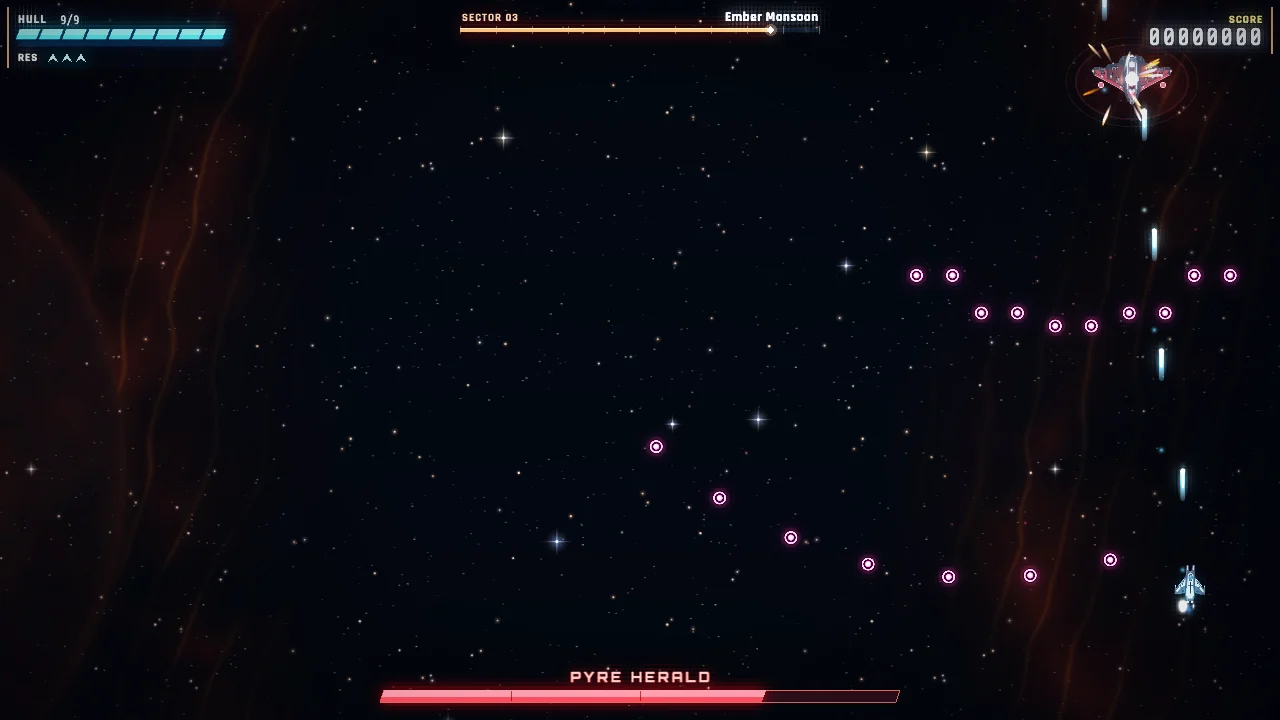
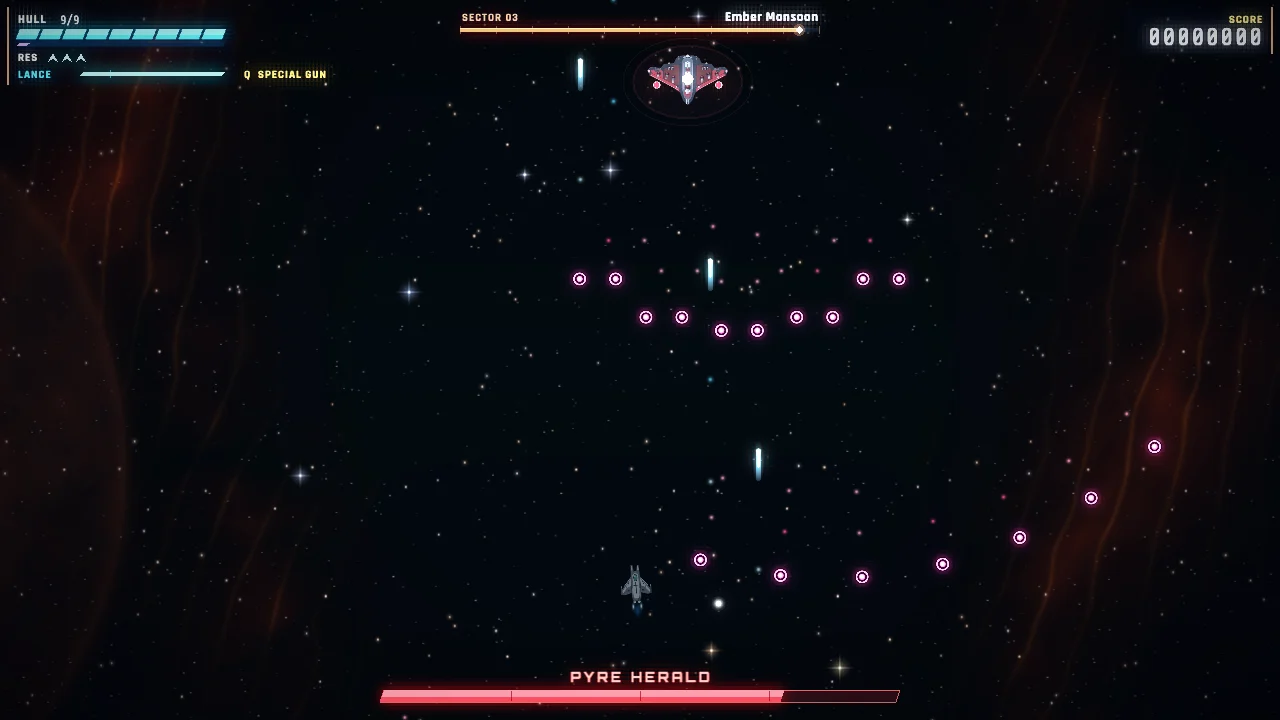
feat(balance): retune bosses and the special-gun charge for Lance as the main gun; v1.35.0 (#45)
* feat(balance): the boss bot spends the special-gun charge; tune the charge and boss hulls

The balance bot now measures three gun policies (Lance only, and Scatter or
Seekers whenever the meter is full) with --guns and --runs, and reports time
on a special gun. Charge: 8 s per full meter, 40 s refill, 0.005 per kill.
Boss hull lowered on sectors 4-10 so a charge-spending bot kills each boss in
89-99% of par and Lance alone stays within 3% past par.

* docs: special-gun charge numbers, boss hull changes and the three-policy balance script

* chore(release): v1.35.0 with retaken README screenshots

* fix(balance): count special-gun time from gameplay clock advances, not the last delta

---------

diff --git a/scripts/balance/bossFights.ts b/scripts/balance/bossFights.ts
@@ -5,24 +5,37 @@
  *
  *   bun run balance:bosses
  *   bun run balance:bosses --sectors 6 --port 4302
+ *   bun run balance:bosses --guns scatter --runs 3
  *   bun run balance:bosses --invulnerable      # time to kill even where the bot would die
  *
  * Starts its own dev server (the browser harness is dev-only), jumps straight to each boss with the
  * sector's representative ship, and lets `startBossFight` in the browser harness fly a fixed bot: it
  * holds a low line under the boss and steps away from shots that will cross it. Every boss sector flies
- * Lance; the bot never spends the special-gun charge. Fights run in real
- * time on the gameplay clock (no speed-up), several at once in separate pages; `seconds` is gameplay
- * time from the boss alarm to the kill, so pauses and hit-stops do not count.
+ * Lance, and each fight follows one gun policy (`--guns`, all three by default):
+ * - `lance` never presses swap, the floor a player who ignores the special guns meets.
+ * - `scatter` / `seekers` spend the charge the way a decent player would: once the boss has taken its
+ *   first hit, every time the meter is full on Lance, press swap until that gun is up (Seekers is two
+ *   presses away) and ride it until the empty meter hands Lance back.
+ * The bot reads the meter from the harness snapshot and presses Q like a player, a few times a second.
+ * Fights run in real time on the gameplay clock (no speed-up), several at once in separate pages;
+ * `seconds` is gameplay time from the boss alarm to the kill, so pauses and hit-stops do not count.
  */
 import { chromium, type Browser } from '@playwright/test';
 import { createServer } from 'vite';
 import type { BossFightReport } from '../../src/browserHarness';
+import { getLevelConfig } from '../../src/config/LevelsConfig';
 import { getUpgradeByKey, getUpgradeProgressionLimit, type UpgradeKey } from '../../src/config/UpgradesConfig';
 
 const BOSS_SECTORS = [3, 4, 5, 6, 7, 8, 9, 10];
+const GUN_POLICIES = ['lance', 'scatter', 'seekers'] as const;
+type GunPolicy = (typeof GUN_POLICIES)[number];
+/** How often the bot looks at the meter: a player glancing at the HUD, not a frame-perfect script. */
+const POLICY_POLL_MS = 250;
 
 interface Options {
   sectors: number[];
+  guns: GunPolicy[];
+  runs: number;
   parallel: number;
   limitSeconds: number;
   invulnerable: boolean;
@@ -41,6 +54,11 @@ function parseOptions(argv: readonly string[]): Options {
       .map((part) => part.trim());
   return {
     sectors: list('--sectors')?.map(Number) ?? BOSS_SECTORS,
+    guns: (list('--guns') ?? [...GUN_POLICIES]).map((gun) => {
+      if (!GUN_POLICIES.includes(gun as GunPolicy)) throw new Error(`--guns: unknown policy ${gun}`);
+      return gun as GunPolicy;
+    }),
+    runs: Number(flag('--runs') ?? 1),
     parallel: Number(flag('--parallel') ?? 4),
     limitSeconds: Number(flag('--limit') ?? 240),
     invulnerable: argv.includes('--invulnerable'),
@@ -60,13 +78,22 @@ function representativeUpgrades(sector: number): string {
   return levels.join(',');
 }
 
+/** Whether the policy presses swap now, given the gun and meter the HUD shows. */
+function wantsSwap(policy: GunPolicy, gun: { id: string; charge: number }): boolean {
+  if (policy === 'lance') return false;
+  if (gun.id === 'lance') return gun.charge >= 1;
+  // On the way to Seekers the swap passes Scatter; once on the policy's gun, ride it out.
+  return gun.id !== policy;
+}
+
 interface FightResult extends BossFightReport {
   sector: number;
+  gun: GunPolicy;
   /** Frames per second the page held; the bot needs a real frame rate to dodge like a player. */
   fps: number;
 }
 
-async function fight(browser: Browser, baseUrl: string, sector: number, options: Options) {
+async function fight(browser: Browser, baseUrl: string, sector: number, gun: GunPolicy, options: Options) {
   const context = await browser.newContext({ viewport: { width: 1280, height: 720 } });
   const page = await context.newPage();
   try {
@@ -92,19 +119,27 @@ async function fight(browser: Browser, baseUrl: string, sector: number, options:
     const deadline = Date.now() + (options.limitSeconds + 30) * 1000;
     let report: BossFightReport | null = null;
     while (Date.now() < deadline) {
-      await page.waitForTimeout(1_000);
-      report = await page
-        .evaluate(() => window.__SPACE_EXPLORER_BROWSER_HARNESS__?.readBossFight() ?? null)
-        .catch(() => report);
-      const gameOver = await page
-        .evaluate(() => window.__SPACE_EXPLORER_BROWSER_HARNESS__?.snapshot().activeScenes.includes('GameOver'))
-        .catch(() => false);
-      if (!report || report.killed || gameOver || report.seconds > options.limitSeconds) break;
+      await page.waitForTimeout(POLICY_POLL_MS);
+      const state = await page
+        .evaluate(() => {
+          const harness = window.__SPACE_EXPLORER_BROWSER_HARNESS__!;
+          const snapshot = harness.snapshot();
+          return {
+            report: harness.readBossFight(),
+            gun: snapshot.gun,
+            gameOver: snapshot.activeScenes.includes('GameOver'),
+          };
+        })
+        .catch(() => null);
+      if (state) report = state.report;
+      if (!state || !report || report.killed || state.gameOver || report.seconds > options.limitSeconds) break;
+      const bossHit = report.bossMaxHp > 0 && report.bossHp < report.bossMaxHp;
+      if (bossHit && state.gun && wantsSwap(gun, state.gun)) await page.keyboard.press('KeyQ');
     }
     if (!report) throw new Error(`Sector ${sector}: no fight report`);
     const frames = await page.evaluate(() => window.__SPACE_EXPLORER_BROWSER_HARNESS__!.renderStats.read().frames);
     const fps = frames / ((Date.now() - startedAt) / 1000);
-    return { ...report, sector, fps } satisfies FightResult;
+    return { ...report, sector, gun, fps } satisfies FightResult;
   } finally {
     await context.close();
   }
@@ -121,7 +156,9 @@ async function main(): Promise<void> {
   if (!address || typeof address === 'string') throw new Error('Dev server did not report a port');
   const baseUrl = `http://127.0.0.1:${address.port}`;
 
-  const queue = [...options.sectors];
+  const queue = options.sectors.flatMap((sector) =>
+    options.guns.flatMap((gun) => Array.from({ length: options.runs }, () => ({ sector, gun })))
+  );
   const results: FightResult[] = [];
   // Without the GPU, headless Chromium renders the game at about 10 fps and the bot reacts too late.
   const browser = await chromium.launch({
@@ -130,9 +167,9 @@ async function main(): Promise<void> {
   });
   try {
     const workers = Array.from({ length: Math.max(1, options.parallel) }, async () => {
-      for (let sector = queue.shift(); sector !== undefined; sector = queue.shift()) {
-        const result = await fight(browser, baseUrl, sector, options);
-        console.error(`sector ${result.sector}: ${result.seconds.toFixed(1)} s`);
+      for (let next = queue.shift(); next !== undefined; next = queue.shift()) {
+        const result = await fight(browser, baseUrl, next.sector, next.gun, options);
+        console.error(`sector ${result.sector} ${result.gun}: ${result.seconds.toFixed(1)} s`);
         results.push(result);
       }
     });
@@ -142,11 +179,12 @@ async function main(): Promise<void> {
     await server.close();
   }
 
-  results.sort((a, b) => a.sector - b.sector);
+  results.sort((a, b) => a.sector - b.sector || GUN_POLICIES.indexOf(a.gun) - GUN_POLICIES.indexOf(b.gun));
   console.log(`Boss fights${options.invulnerable ? ' (invulnerable bot)' : ''}`);
   console.table(
     results.map((result) => ({
       sector: result.sector,
+      gun: result.gun,
       upgrades: representativeUpgrades(result.sector),
       'kill s': result.killed ? Number(result.seconds.toFixed(1)) : `- (${Math.round(result.seconds)})`,
       'boss hp': result.killed ? 0 : `${Math.round(result.bossHp)}/${result.bossMaxHp}`,
@@ -154,6 +192,7 @@ async function main(): Promise<void> {
       'hull hits': result.hullHits,
       'shield hits': result.shieldHits,
       deaths: result.deaths,
+      special: `${Math.round(specialShare(result) * 100)}%`,
       phases: result.phases.join(' '),
       'peak shots': result.peakShots,
       hits: Object.entries(result.hitsBySource)
@@ -162,7 +201,41 @@ async function main(): Promise<void> {
       fps: Math.round(result.fps),
     }))
   );
+  console.log('Per sector and gun policy (kill times of killed fights only)');
+  console.table(summarize(results));
   console.log(JSON.stringify(results));
+}
+
+function specialShare(result: FightResult): number {
+  return result.seconds > 0 ? result.specialGunSeconds / result.seconds : 0;
+}
+
+/** Mean kill time against par, its run-to-run spread, deaths and time on a special gun. */
+function summarize(results: readonly FightResult[]) {
+  const groups = new Map<string, FightResult[]>();
+  for (const result of results) {
+    const key = `${result.sector} ${result.gun}`;
+    groups.set(key, [...(groups.get(key) ?? []), result]);
+  }
+  return [...groups.values()].map((group) => {
+    const { sector, gun } = group[0]!;
+    const par = getLevelConfig(sector).boss!.parSeconds;
+    const kills = group.filter((result) => result.killed).map((result) => result.seconds);
+    const mean = kills.length > 0 ? kills.reduce((sum, seconds) => sum + seconds, 0) / kills.length : NaN;
+    const share = group.reduce((sum, result) => sum + specialShare(result), 0) / group.length;
+    return {
+      sector,
+      gun,
+      runs: group.length,
+      killed: kills.length,
+      'mean kill s': Number(mean.toFixed(1)),
+      spread: kills.length > 0 ? `${Math.min(...kills).toFixed(1)}-${Math.max(...kills).toFixed(1)}` : '-',
+      par,
+      '% of par': Math.round((mean / par) * 100),
+      deaths: group.reduce((sum, result) => sum + result.deaths, 0),
+      special: `${Math.round(share * 100)}%`,
+    };
+  });
 }
 
 await main();

diff --git a/src/browserHarness/bossFightProbes.ts b/src/browserHarness/bossFightProbes.ts
@@ -3,6 +3,7 @@ import type { Boss } from '@/entities/enemies/Boss';
 import { FLIGHT_CONFIG } from '@/config/flightConfig';
 import { stepFlight } from '@/systems/flight/flightModel';
 import type { Player } from '@/entities/Player';
+import type { MainGunId } from '@/config/shipSystems';
 import type { EnemyPool } from '@/systems/EnemyPool';
 import { GAME_SCENE_EVENTS } from '@/systems/GameSceneEvents';
 import type { DamageSource, PlayerFatalResult, PlayerHitResult } from '@/systems/PlayerDamage';
@@ -23,6 +24,8 @@ export interface BossFightReport {
   peakShots: number;
   bossHp: number;
   bossMaxHp: number;
+  /** Gameplay seconds of the fight flown on a special gun (Scatter or Seekers). */
+  specialGunSeconds: number;
 }
 
 interface BossFightScene extends Phaser.Scene {
@@ -31,6 +34,7 @@ interface BossFightScene extends Phaser.Scene {
   levelManager: { distance: number; getLevelConfig(): { levelDistance: number; bossTriggerProgress: number } };
   gameplayClock: { now: number; delta: number };
   boss: Boss | null;
+  shipSystems: { getGun(): MainGunId | null };
   inputManager: {
     cursors: Record<'left' | 'right' | 'up' | 'down', Phaser.Input.Keyboard.Key>;
   };
@@ -197,9 +201,12 @@ export function createBossFightProbes(game: Phaser.Game) {
         peakShots: 0,
         bossHp: 0,
         bossMaxHp: 0,
+        specialGunSeconds: 0,
       };
       report = fight;
       let spawnedAt = 0;
+      // Hit-stop and pause freeze the gameplay clock, so time is counted from its advances.
+      let lastNow = scene.gameplayClock.now;
       const botMemory: BotMemory = { goalX: null, bossX: null };
       if (options.invulnerable) scene.player.shields = 0;
 
@@ -232,7 +239,13 @@ export function createBossFightProbes(game: Phaser.Game) {
           fight.bossMaxHp = boss.maxHp;
         }
         fight.peakShots = Math.max(fight.peakShots, scene.enemyPool.getEnemyBulletGroup().countActive(true));
-        if (fight.spawned && !fight.killed) fight.seconds = (scene.gameplayClock.now - spawnedAt) / 1000;
+        const now = scene.gameplayClock.now;
+        if (fight.spawned && !fight.killed) {
+          fight.seconds = (now - spawnedAt) / 1000;
+          const gun = scene.shipSystems.getGun();
+          if (gun === 'scatter' || gun === 'seekers') fight.specialGunSeconds += (now - lastNow) / 1000;
+        }
+        lastNow = now;
         if (options.bot) steerBot(scene, botMemory);
       };
       const bindings: Array<[string, (...args: never[]) => void]> = [

diff --git a/src/config/shipSystems.ts b/src/config/shipSystems.ts
@@ -209,12 +209,19 @@ export function getNextMainGun(gun: MainGunId): MainGunId {
  * - `minToLeaveLance`: leaving Lance needs at least this much; below it the swap is refused. Moving
  *   between the special guns, or back to Lance, is always allowed.
  * The meter starts full every sector and after every respawn or checkpoint load, and is never saved.
+ *
+ * Tuned so the special guns stay a short boost, not the gun you fly. With `bun run balance:bosses`, a bot
+ * that swaps whenever the meter is full spent 17-29% of each boss fight on a special gun (one window in
+ * the short sector 3-4 fights, two in the longer ones). Over the first 40 s of sectors 3-5 (autofire,
+ * sweeping ship, same swap rule) it spent 20-35% and scored about what the standard gun did; at 0.01 per
+ * kill the meter refilled fast enough for a second window and scores ran well above it. The first guess
+ * (10 s drain, 30 s refill, 0.02 per kill) gave 26-39% in boss fights.
  */
 export const SPECIAL_GUN_CHARGE = {
   fromLevel: 3,
-  drainMs: 10_000,
-  refillMs: 30_000,
-  perKill: 0.02,
+  drainMs: 8_000,
+  refillMs: 40_000,
+  perKill: 0.005,
   minToLeaveLance: 0.2,
 } as const;
 

diff --git a/src/config/levels/definitions/deepSpaceInferno.ts b/src/config/levels/definitions/deepSpaceInferno.ts
@@ -33,7 +33,7 @@ export const DEEP_SPACE_INFERNO_LEVEL: LevelConfig = {
   hasBoss: true,
   boss: {
     name: 'Reef Stalker',
-    maxHp: 625,
+    maxHp: 550,
     parSeconds: 52,
     escalatesPastPar: true,
     phaseChangePauseMs: 280,

diff --git a/src/config/levels/definitions/warzoneCorridor.ts b/src/config/levels/definitions/warzoneCorridor.ts
@@ -46,7 +46,7 @@ export const WARZONE_CORRIDOR_LEVEL: LevelConfig = {
   hasBoss: true,
   boss: {
     name: 'Marshal Vectra',
-    maxHp: 505,
+    maxHp: 440,
     parSeconds: 50,
     escalatesPastPar: true,
     phaseChangePauseMs: 280,

diff --git a/src/config/levels/definitions/wreckfieldRun.ts b/src/config/levels/definitions/wreckfieldRun.ts
@@ -47,7 +47,7 @@ export const WRECKFIELD_RUN_LEVEL: LevelConfig = {
   hasBoss: true,
   boss: {
     name: 'Bastion Bulwark',
-    maxHp: 520,
+    maxHp: 460,
     parSeconds: 60,
     escalatesPastPar: true,
     phaseChangePauseMs: 300,

diff --git a/src/config/levels/definitions/ghostlightVeil.ts b/src/config/levels/definitions/ghostlightVeil.ts
@@ -46,7 +46,7 @@ export const GHOSTLIGHT_VEIL_LEVEL: LevelConfig = {
   hasBoss: true,
   boss: {
     name: 'Choir Regent',
-    maxHp: 1040,
+    maxHp: 830,
     parSeconds: 58,
     escalatesPastPar: true,
     phaseChangePauseMs: 260,

diff --git a/src/config/levels/definitions/obsidianMaw.ts b/src/config/levels/definitions/obsidianMaw.ts
@@ -54,7 +54,7 @@ export const OBSIDIAN_MAW_LEVEL: LevelConfig = {
   hasBoss: true,
   boss: {
     name: 'Hive Maelstrom',
-    maxHp: 1645,
+    maxHp: 1580,
     parSeconds: 65,
     escalatesPastPar: true,
     phaseChangePauseMs: 280,

diff --git a/src/config/levels/definitions/crownOfRings.ts b/src/config/levels/definitions/crownOfRings.ts
@@ -44,7 +44,7 @@ export const CROWN_OF_RINGS_LEVEL: LevelConfig = {
   hasBoss: true,
   boss: {
     name: 'Umbral Ark',
-    maxHp: 1320,
+    maxHp: 1170,
     parSeconds: 62,
     escalatesPastPar: true,
     phaseChangePauseMs: 300,

diff --git a/src/config/levels/definitions/terminusBlack.ts b/src/config/levels/definitions/terminusBlack.ts
@@ -51,7 +51,7 @@ export const TERMINUS_BLACK_LEVEL: LevelConfig = {
   hasBoss: true,
   boss: {
     name: 'Omega Null',
-    maxHp: 1300,
+    maxHp: 1230,
     parSeconds: 70,
     escalatesPastPar: true,
     phaseChangePauseMs: 240,

diff --git a/docs/level-design.md b/docs/level-design.md
@@ -24,13 +24,13 @@ shields recharge on every respawn.
 Levels 5–10 add payoff without adding player inputs:
 
 - **AEGIS Picket** becomes purchasable after Level 4. Its fixed flank turrets trim chaff with flat-damage bolts while the main gun remains the dominant damage source. Pickets never target bosses.
-- **Main guns** (`config/shipSystems.ts`): sectors 1–2 fly the standard bolt and have no gun input, so the opening stays a gentle introduction. From sector 3 the home gun is Lance; Scatter and Seekers are special guns borrowed on a charge, not picks. Each gun trades single-target damage for one strength and scored inside the standard gun's run-to-run spread in sector 5. Q or the touch swap key steps Lance → Scatter → Seekers → Lance. One meter, `SPECIAL_GUN_CHARGE`, counted on the gameplay clock, pays for the specials: it drains while one is selected (a full meter lasts 10 s) and returns the gun to Lance at empty; on Lance it refills over 30 s plus a bonus per enemy destroyed; leaving Lance needs at least 0.2 of it, while moving between specials or back to Lance is always allowed. It starts full every sector and after every respawn or checkpoint load, and is never saved. Feedback is a name flash over the ship and a short swap sound on every change (including the automatic return), the quiet click when leaving Lance is refused, each gun's own shot look (the profile's `look`), and the HUD's gun row under the reserve ships: the gun's name and a charge bar that burns amber while a special drains and refills cyan on Lance, with a tick at the threshold. The touch swap key mirrors the bar along its foot. The guns are taught, never picked: the refit bay after sector 2 opens on a one-button SPECIAL GUNS ONLINE card (`planetIntermission/specialGunIntro.ts`, shown on every visit to that bay and no other), and sector 3 only points at the swap until the first one there (`ShipSystemsRuntime.isSwapHintPending`): a `Q  SPECIAL GUN` label beside the charge bar on a keyboard, a pulsing ring around the touch swap key.
+- **Main guns** (`config/shipSystems.ts`): sectors 1–2 fly the standard bolt and have no gun input, so the opening stays a gentle introduction. From sector 3 the home gun is Lance; Scatter and Seekers are special guns borrowed on a charge, not picks. Each gun trades single-target damage for one strength and scored inside the standard gun's run-to-run spread in sector 5. Q or the touch swap key steps Lance → Scatter → Seekers → Lance. One meter, `SPECIAL_GUN_CHARGE`, counted on the gameplay clock, pays for the specials: it drains while one is selected (a full meter lasts 8 s) and returns the gun to Lance at empty; on Lance it refills over 40 s plus 0.005 per enemy destroyed; leaving Lance needs at least 0.2 of it, while moving between specials or back to Lance is always allowed. It starts full every sector and after every respawn or checkpoint load, and is never saved. Feedback is a name flash over the ship and a short swap sound on every change (including the automatic return), the quiet click when leaving Lance is refused, each gun's own shot look (the profile's `look`), and the HUD's gun row under the reserve ships: the gun's name and a charge bar that burns amber while a special drains and refills cyan on Lance, with a tick at the threshold. The touch swap key mirrors the bar along its foot. The guns are taught, never picked: the refit bay after sector 2 opens on a one-button SPECIAL GUNS ONLINE card (`planetIntermission/specialGunIntro.ts`, shown on every visit to that bay and no other), and sector 3 only points at the swap until the first one there (`ShipSystemsRuntime.isSwapHintPending`): a `Q  SPECIAL GUN` label beside the charge bar on a keyboard, a pulsing ring around the touch swap key.
 - **Ship systems** are free one-of-three picks at the refit bay after sectors 5 and 8. They change how the ship plays rather than how hard it hits. A system works without input; the only input is changing one. Once a slot has a pick the player may change it to another option of that slot: freely at every later refit bay (the picks sit beside the upgrade cards and reopen the pick dialog, which Escape dismisses) and mid-run from the pause panel's SYSTEMS tab. The current pick is saved with the run.
 - **Run variation** comes from one seed per run (`systems/runVariation.ts`, `systems/gameplayRandom.ts`). It decides the wave choices, whether each sector is mirrored left to right, and the sky. Two rules keep scores comparable: the sky is looks only, and the only layout change is the mirror, which is as hard by symmetry. Never vary wave order, enemy counts or timing by seed. RETRY keeps the seed; NEW RUN draws a new one. Enemies, asteroids and wormholes each draw from their own seeded stream, so one cannot shift another's choices; how far a run gets through a stream still depends on play. Enemy jitter and pickup drops stay unseeded because they depend on how the fight goes.
 - **Marked Aces** are sparse authored variants of existing enemies. Their gilded treatment signals 2× durability, 4× score, and exactly one guaranteed power-up.
 - **Boss volleys are telegraphed.** For the last 400 ms before every volley the boss's core swells and its hardpoints flash white. Bosses have no stun or bonus-damage window; fights are paced by the wind-up and each attack's cooldown.
 - **Boss fights are authored rotations.** A boss's whole fight lives in its level file (`BossConfig`): phases start at hull thresholds (any number of them), and each phase steps through an ordered list of attacks, each with its own cooldown, never picked at random. An attack can send the boss to an anchor first (`x` a share of the screen width, `y` pixels from the top) and holds the volley until it arrives, so a safe spot does not stay safe. Shared building blocks live in `entities/enemies/boss/volleys.ts`: arcs, aimed arcs, spirals, escort summons, a wall with one gap, an aimed burst, and a beam that reuses the hazard beam and its telegraph. A shielded attack keeps the hull closed from the previous volley until it fires, and only then.
-- **Boss hull is authored, not scaled.** Upgrades shorten boss fights; nothing raises boss hull. Each boss has a par time (45-70 s) and a hull tuned so the sector's representative ship meets it with the measurement bot (`bun run balance:bosses`, which states the ship). Past par, cooldowns shrink evenly to 25% faster over 30 s; the wind-up keeps its length. The sector 3 boss does not escalate. A kill under par pays 200 points per whole second left. Fight time is the boss's gameplay clock, so pause and hit-stop never count.
+- **Boss hull is authored, not scaled.** Upgrades shorten boss fights; nothing raises boss hull. Each boss has a par time (45-70 s) and a hull tuned with the measurement bot (`bun run balance:bosses`, which states the ship): flying the sector's representative ship and spending the special-gun charge on Scatter or Seekers whenever the meter is full, it kills every boss in 85-100% of par without dying, and on Lance alone it stays within about 5% past par. The policies spend about a quarter of each fight on a special gun. Past par, cooldowns shrink evenly to 25% faster over 30 s; the wind-up keeps its length. The sector 3 boss does not escalate. A kill under par pays 200 points per whole second left. Fight time is the boss's gameplay clock, so pause and hit-stop never count.
 - **Max-chain Overdrive** reduces the main-gun cooldown by 15% while the existing chain multiplier remains at x5. It adds no input and ends immediately when the chain falls.
 
 These systems must preserve Lane-Reading, avoid persistent HUD panels, and remain independently removable through upgrade/config gates.

diff --git a/CHANGELOG.md b/CHANGELOG.md
@@ -2,7 +2,7 @@
 
 All notable changes to this project will be documented in this file.
 
-## [Unreleased]
+## [1.35.0] - 2026-11-14
 
 ### Added
 
@@ -11,10 +11,11 @@ All notable changes to this project will be documented in this file.
 
 ### Changed
 
-- Lance is now your main gun from sector 3 on, and Scatter and Seekers are special guns you use on a charge. Press Q (or the swap button on touch screens) to go Lance → Scatter → Seekers → Lance. A special gun runs down a charge meter: a full meter lasts 10 seconds, and when it empties you go back to Lance on your own, with the gun's name flashing over your ship. The meter only refills on Lance, over 30 seconds, and every enemy you destroy tops it up a little. You need a fifth of the meter to leave Lance; below that Q just clicks. Switching between the special guns, or back to Lance, always works.
+- Lance is now your main gun from sector 3 on, and Scatter and Seekers are special guns you use on a charge. Press Q (or the swap button on touch screens) to go Lance → Scatter → Seekers → Lance. A special gun runs down a charge meter: a full meter lasts 8 seconds, and when it empties you go back to Lance on your own, with the gun's name flashing over your ship. The meter only refills on Lance, over 40 seconds, and every enemy you destroy tops it up a little (half a percent). You need a fifth of the meter to leave Lance; below that Q just clicks. Switching between the special guns, or back to Lance, always works.
 - The meter starts full at the start of every sector and after you respawn or load a checkpoint. Pausing and hit-stops never run it down.
 - The HUD shows the current gun and its charge under your reserve ships from sector 3: amber while a special gun drains it, cyan while Lance refills it. The touch swap button shows the same charge along its foot. Sectors 1 and 2 are unchanged: standard gun, no meter, and Q does nothing.
-- `bun run balance:bosses` measures every boss with Lance only; its `--guns` option is gone.
+- Seven bosses have less hull now that Lance is the main gun: Marshal Vectra 505 → 440, Reef Stalker 625 → 550, Bastion Bulwark 520 → 460, Choir Regent 1040 → 830, Umbral Ark 1320 → 1170, Hive Maelstrom 1645 → 1580, Omega Null 1300 → 1230. Pyre Herald and every par time are unchanged. Spending the charge whenever the meter is full kills each boss a little under par; never pressing Q stays close to par, so the boss speeds up but never walls you.
+- `bun run balance:bosses` measures three gun policies: Lance only, and Scatter or Seekers spent whenever the meter is full. `--guns lance,scatter,seekers` picks policies and `--runs N` repeats each fight; a summary table shows each sector's mean kill time against par, the run-to-run spread, deaths and the share of the fight flown on a special gun.
 
 ### Removed
 
